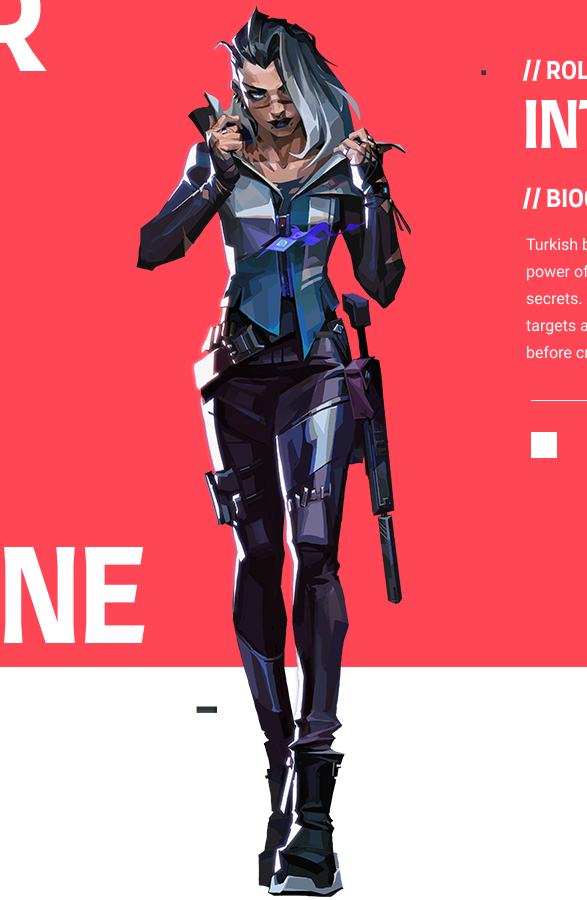
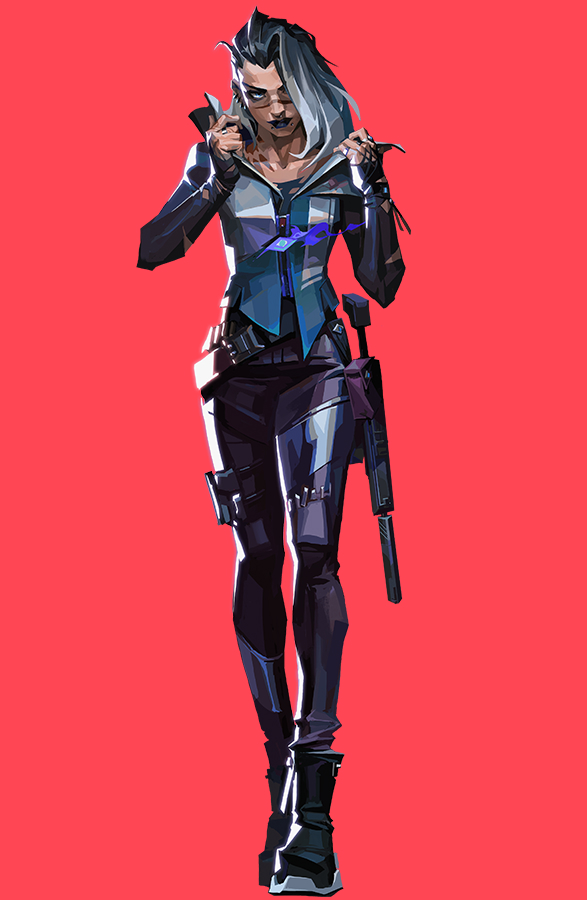
Animation not working

diff --git a/style.css b/style.css
@@ -76,7 +76,7 @@ nav {
     background-color: black;
     position: absolute;
     min-width: 100vw;
-    animation: slide-down 1s ease-out 0s 1;
+    animation: slide-down 2s ease-out 0s 1;
 }
 
 @keyframes slide-down {
@@ -118,6 +118,8 @@ section {
     display: flex;
 }
 
+/* ! ################### Left Container include Animation ################## */
+
 .leftContainer {
     display: flex;
     flex-direction: column;
@@ -126,6 +128,17 @@ section {
     padding-left: 3vw;
     min-width: 33%;
     min-height: 100vh;
+    animation: slide-to-right 2s ease-out 1;
+}
+
+@keyframes slide-to-right {
+    from {
+        margin-left: -50%;
+    }
+
+    to {
+        margin-left: 0;
+    }
 }
 
 span {
@@ -149,4 +162,36 @@ span {
 .active span,
 .leftContainer .active {
     color: #ff4655;
+}
+
+/* ! ############## Middle Container include Animation ################### */
+
+.middleContainer {
+    min-height: 100vh;
+    display: flex;
+    align-items: center;
+    justify-content: center;
+    /* visibility: hidden; */
+    animation: visible 3s 3s ease-out;
+}
+
+.middleContainer img {
+    /* visibility: hidden; */
+    height: 70%;
+}
+
+@keyframes visible {
+    from {
+        visibility: hidden;
+        opacity: 0.5;
+    }
+
+    to {
+        visibility: visible;
+        opacity: 1;
+    }
+}
+
+.middleContainer {
+    /* visibility: visible; */
 }

diff --git a/index.html b/index.html
@@ -43,6 +43,12 @@
                         <a href="#"><span>21</span>Brimstone</a>
                         <a class="active" href="#"><span>22</span>Phoenix</a>
                     </div>
+                    <div class="middleContainer">
+                        <img
+                            src="./assets/images/agent 1.jpg"
+                            alt="image hero agent"
+                        />
+                    </div>
                 </section>
             </header>
         </body>
